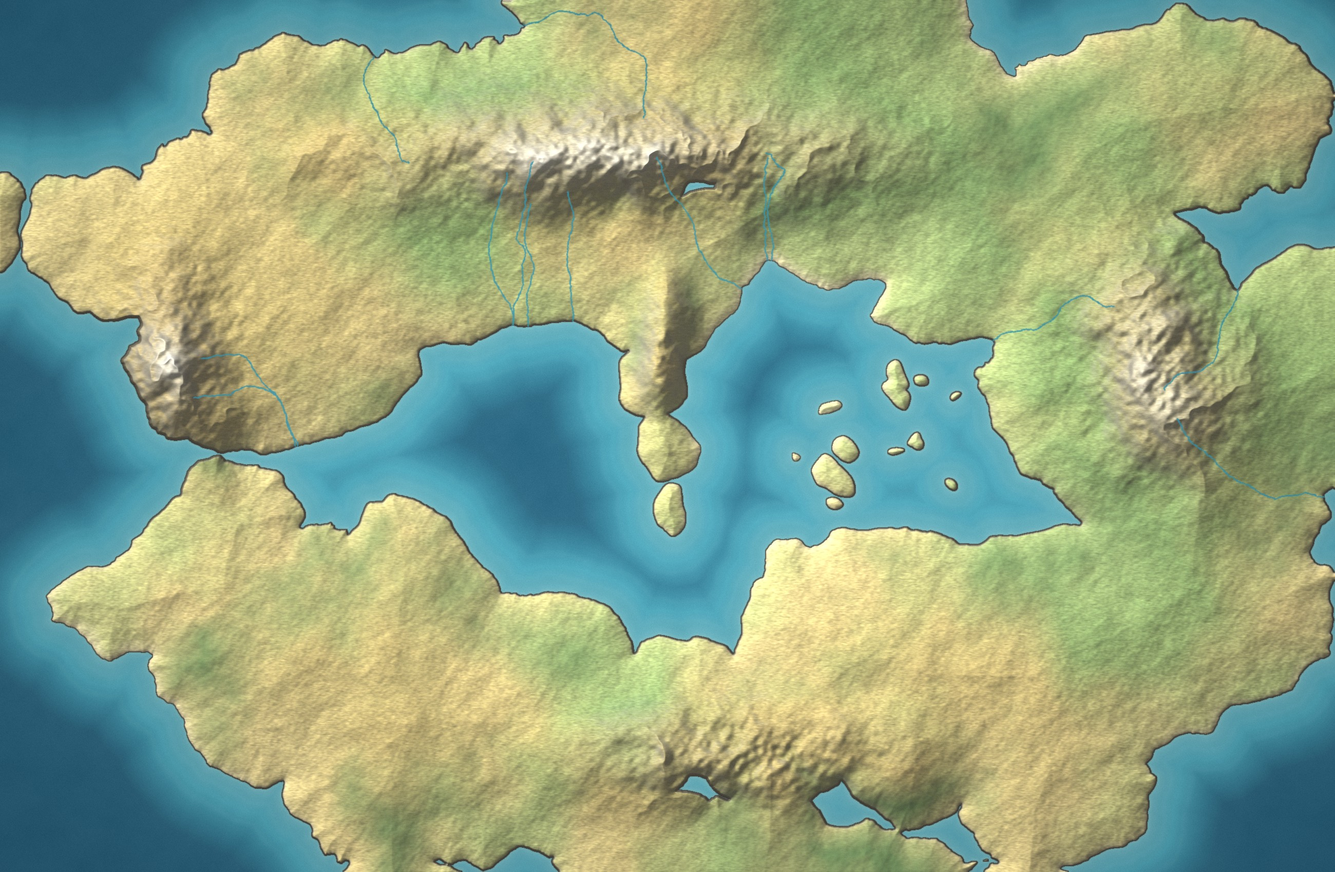
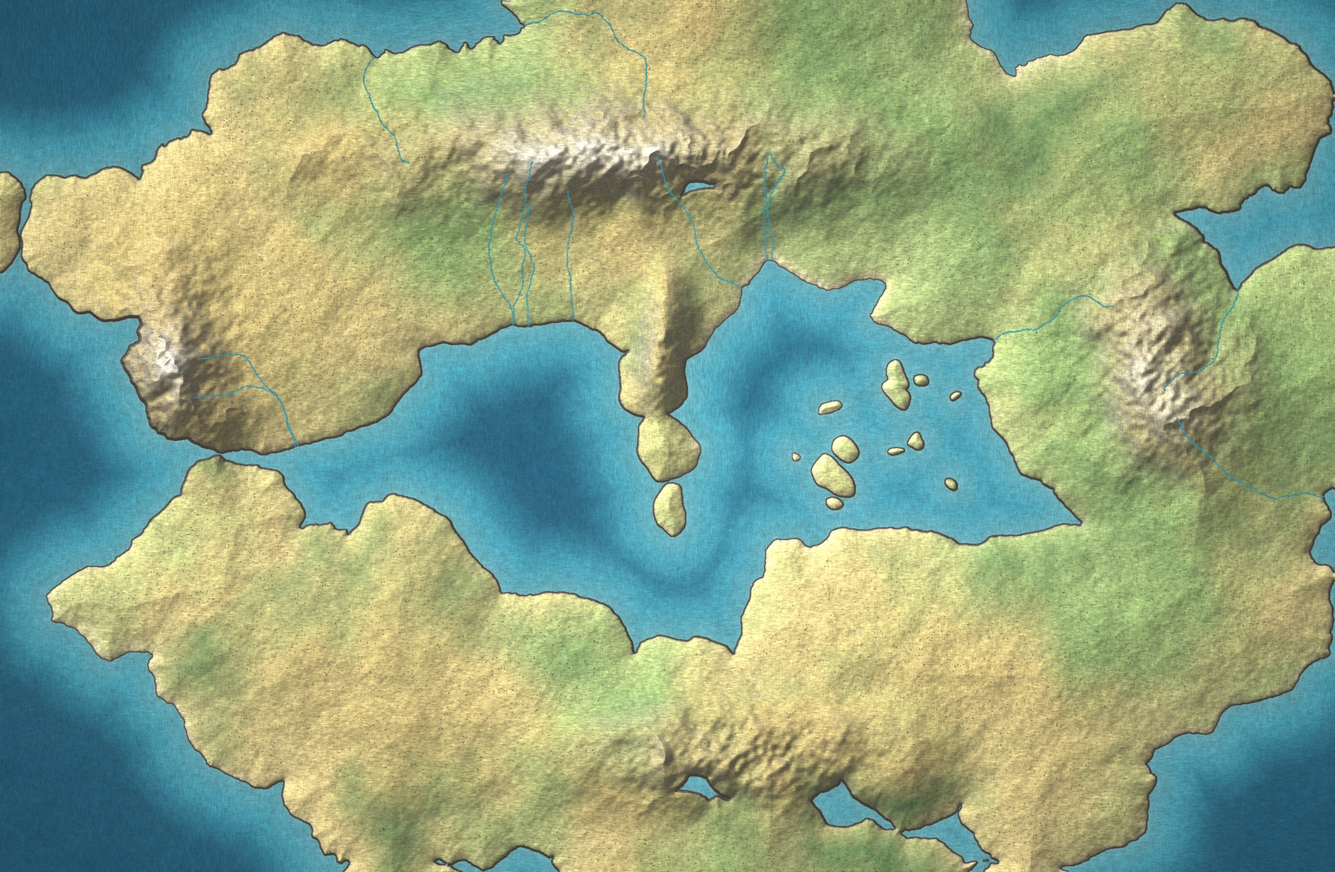
The Eightpoints is the Star of Chaos, Azyr has three ways out, and the plates get a hand
Archaon did not find the Allpoints' shape; he made it. The Eightpoints
is now the symbol drawn as ground — a disc for the Varanspire, eight
straight arms, an arrowhead on the end of each with its arcway inside —
crumbled only enough at the coast to be a coast. It reads from the
overview.

Azyr had one door. Every gate into or out of the realm ran through the
Gates of Azyr, which made one place a bottleneck for a whole realm. The
Whispering Gate now opens from the Watch on the southern headland onto
Aqshy, and the Skydock is a Kharadron port with a run to Barak-Nar.

And the three painted plates get what a render lacks and a painting
has: paper tooth and wash under the paint, brush strokes that change
direction across the sheet, hatching where the ground is steep, stipple
where it is flat, and ink bled into the paper at every coast. Faint on
their own; together, the difference between a heightmap and a plate.

diff --git a/src/data/maps/eightpoints.js b/src/data/maps/eightpoints.js
@@ -27,16 +27,16 @@ export default {
       "name": "Carngrad",
       "kind": "fortress",
       "region": "The Eightpoints",
-      "x": 970,
-      "y": 980
+      "x": 1027,
+      "y": 1036
     },
     {
       "id": "flayhaunt",
       "name": "Flayhaunt",
       "kind": "fortress",
       "region": "The Eightpoints",
-      "x": 1640,
-      "y": 750
+      "x": 1646,
+      "y": 769
     },
     {
       "id": "arcway-fire",
@@ -44,22 +44,22 @@ export default {
       "kind": "settlement",
       "region": "The Eightpoints",
       "x": 1300,
-      "y": 464
+      "y": 161
     },
     {
       "id": "arcway-life",
       "name": "The Genesis Gate",
       "kind": "settlement",
       "region": "The Eightpoints",
-      "x": 1539,
-      "y": 610
+      "x": 1783,
+      "y": 366
     },
     {
       "id": "arcway-beasts",
       "name": "The Mawgate",
       "kind": "settlement",
       "region": "The Eightpoints",
-      "x": 1642,
+      "x": 1981,
       "y": 850
     },
     {
@@ -67,48 +67,48 @@ export default {
       "name": "The Endgate",
       "kind": "settlement",
       "region": "The Eightpoints",
-      "x": 1643,
-      "y": 1193
+      "x": 1792,
+      "y": 1342
     },
     {
       "id": "arcway-metal",
       "name": "The Mercurial Gate",
       "kind": "settlement",
       "region": "The Eightpoints",
-      "x": 1308,
-      "y": 1210
+      "x": 1300,
+      "y": 1540
     },
     {
       "id": "arcway-shadow",
       "name": "The Penumbral Gate",
       "kind": "settlement",
       "region": "The Eightpoints",
-      "x": 1091,
-      "y": 1058
+      "x": 812,
+      "y": 1337
     },
     {
       "id": "arcway-light",
       "name": "The Arcway of Hysh",
       "kind": "settlement",
       "region": "The Eightpoints",
-      "x": 1028,
-      "y": 834
+      "x": 616,
+      "y": 850
     },
     {
       "id": "arcway-heavens",
       "name": "The Meteoric Gate (sealed)",
       "kind": "settlement",
       "region": "The Eightpoints",
-      "x": 1077,
-      "y": 627
+      "x": 819,
+      "y": 369
     },
     {
       "id": "skarrgrim",
       "name": "Skarrgrim",
       "kind": "fortress",
       "region": "The Eightpoints",
-      "x": 1253,
-      "y": 1234
+      "x": 1234,
+      "y": 1210
     }
   ],
   "extraLinks": [],

diff --git a/src/data/mortal-realms.js b/src/data/mortal-realms.js
@@ -278,9 +278,14 @@ export const MORTAL_REALMS = {
   // [point, point, name]. A gate joins two points on different realms.
   gates: [
     ['hammerhal-aqsha', 'hammerhal-ghyra', 'The Stormrift Realmgate'],
-    ['brimstone-peninsula', 'gates-of-azyr', 'The Whispering Gate'],
+    // Azyr has more than one way out. Every gate used to run through the
+    // Gates of Azyr, which made that one place a bottleneck for a whole realm;
+    // the Watch on the southern headland opens onto Aqshy, and the Skydock
+    // is a Kharadron port with a run to Barak-Nar.
     ['gates-of-azyr', 'excelsis', 'Gate of Azyr'],
     ['gates-of-azyr', 'glymmsforge', 'Gate of Azyr'],
+    ['azyrite-watch', 'brimstone-peninsula', 'The Whispering Gate'],
+    ['skydock', 'barak-nar', 'The Skydock run'],
     ['syar', 'misthavn', 'The Twilight Gate'],
     ['argentine', 'floating-city', 'Skyport Route'],
     // The Arcways out of the Eightpoints. Azyr's, the Meteoric Gate, is sealed.

diff --git a/scripts/paint-realm.py b/scripts/paint-realm.py
@@ -215,6 +215,52 @@ def ramp(t, stops):
     return out
 
 
+def texture(img, land, slope, rng, ink):
+    """What a render lacks and a painting has: paper under the paint, the
+    brush's direction changing from place to place, hatching where the ground
+    is steep, stipple where it is flat, and ink that has bled a little into the
+    paper at every coast. All of it is faint on its own; together it is the
+    difference between a heightmap and a plate."""
+    h, w = land.shape
+    img = img.astype(np.float32)
+
+    # Paper: a fine tooth, and a blotchier wash under it, both multiplicative.
+    tooth = cv2.GaussianBlur(rng.normal(0, 1, (h, w)).astype(np.float32), (0, 0), 0.6)
+    tooth = (tooth - tooth.mean()) / (tooth.std() + 1e-6)
+    wash = fbm(rng, (h, w), octaves=4, base=9) - 0.5
+    img *= (1 + tooth[..., None] * 0.035 + wash[..., None] * 0.07)
+
+    # Brush: streaks whose direction wanders across the sheet. Two directional
+    # blurs of the same noise, blended by a slow field, read as strokes laid
+    # by hand rather than one machine pass.
+    base = rng.normal(0, 1, (h, w)).astype(np.float32)
+    along = cv2.GaussianBlur(base, (21, 3), 0)
+    across = cv2.GaussianBlur(base, (3, 21), 0)
+    mixw = fbm(rng, (h, w), octaves=3, base=5)
+    stroke = along * mixw + across * (1 - mixw)
+    stroke = (stroke - stroke.mean()) / (stroke.std() + 1e-6)
+    img *= (1 + stroke[..., None] * 0.04)
+
+    # Hatching on the steep ground: short dark strokes, denser as it steepens.
+    hatch = cv2.GaussianBlur(rng.normal(0, 1, (h, w)).astype(np.float32), (9, 3), 0)
+    hatch = np.clip((hatch - hatch.mean()) / (hatch.std() + 1e-6) - 0.9, 0, 1)
+    steep = np.clip((slope - 0.6) / 1.4, 0, 1) * land
+    img = img * (1 - (hatch * steep)[..., None] * 0.35) + np.array(ink, np.float32) * (hatch * steep)[..., None] * 0.35
+
+    # Stipple on the flat: sparse dots, as the plates draw scrub and grass.
+    dots = rng.random((h, w)).astype(np.float32)
+    flat = np.clip(1 - slope / 0.5, 0, 1) * land
+    stip = ((dots > 0.9965) & (flat > 0.5)).astype(np.float32)
+    stip = cv2.GaussianBlur(stip, (0, 0), 0.8) * 6
+    img = img * (1 - np.clip(stip, 0, 1)[..., None] * 0.45) + np.array(ink, np.float32) * np.clip(stip, 0, 1)[..., None] * 0.45
+
+    # Ink bleed: the coast's line feathers into the paper on the water side.
+    edge = cv2.morphologyEx(land.astype(np.uint8), cv2.MORPH_GRADIENT, np.ones((3, 3), np.uint8)).astype(np.float32)
+    bleed = cv2.GaussianBlur(edge, (0, 0), 5) * (fbm(rng, (h, w), octaves=4, base=50) * 0.8 + 0.2) * (~land)
+    img = img * (1 - bleed[..., None] * 0.5) + np.array(ink, np.float32) * bleed[..., None] * 0.5
+    return img
+
+
 def paint(height, sea, palette, rng, *, forest=None, glow=None, ink=(30, 24, 20), shore_km=60, streams=None):
     """Turn a heightmap into a plate. Colours are RGB in the palette; BGR out."""
     h, w = height.shape
@@ -311,6 +357,8 @@ def paint(height, sea, palette, rng, *, forest=None, glow=None, ink=(30, 24, 20)
             halo = cv2.GaussianBlur(riv, (0, 0), 9) * palette['river_glow']
             img += halo[..., None] * col
         img = img * (1 - riv[..., None] * 0.85) + col * riv[..., None] * 0.85
+
+    img = texture(img, land, slope, rng, ink)
 
     # --- the realm's own light: a tint and a lift, if it has one.
     if 'tint' in palette:
@@ -497,22 +545,47 @@ def compose_eightpoints(rng):
     cx, cy = 1300, 850
     # The Allpoints as the name says: eight arms out from the Varanspire, with
     # the coast crumbling off every one of them into a sea that is not water.
-    field = star(shape, cx, cy, r_out=860, r_in=470, points=8, rot=np.pi / 8) ** 0.55
-    # Slag banks and broken ground off the arms, and skerries beyond them.
-    for _ in range(60):
-        a = rng.uniform(0, 2 * np.pi); d = rng.uniform(420, 900)
-        r = rng.uniform(40, 130)
-        field = np.maximum(field, blob(shape, cx + np.cos(a) * d, cy + np.sin(a) * d, r, r * 0.8, power=0.9) * rng.uniform(0.7, 1.0))
-    field += (fbm(rng, shape, octaves=6, base=16) - 0.5) * 0.5
-    field = coastify(field, rng, big=70, small=34)
-    land = field > 0.42
+    # Archaon did not find this shape; he made it. The Star of Chaos, drawn as
+    # ground: a disc for the Varanspire, eight straight arms out from it, and
+    # an arrowhead on the end of every one. The coast crumbles enough to be a
+    # coast and no more, so the symbol stays legible from the overview.
+    mask = np.zeros(shape, np.float32)
+    cv2.circle(mask, (cx, cy), 250, 1.0, -1)
+    for k in range(8):
+        a = -np.pi / 2 + k * np.pi / 4
+        ux, uy = np.cos(a), np.sin(a)
+        px, py = -uy, ux                       # across the arm
+        shaft_w, shaft_len, head_w, head_len = 64, 470, 180, 150
+        s0, s1 = 180, 180 + shaft_len
+        shaft = np.array([
+            (cx + ux * s0 + px * shaft_w, cy + uy * s0 + py * shaft_w),
+            (cx + ux * s1 + px * shaft_w, cy + uy * s1 + py * shaft_w),
+            (cx + ux * s1 - px * shaft_w, cy + uy * s1 - py * shaft_w),
+            (cx + ux * s0 - px * shaft_w, cy + uy * s0 - py * shaft_w),
+        ], np.int32)
+        head = np.array([
+            (cx + ux * s1 + px * head_w, cy + uy * s1 + py * head_w),
+            (cx + ux * (s1 + head_len), cy + uy * (s1 + head_len)),
+            (cx + ux * s1 - px * head_w, cy + uy * s1 - py * head_w),
+        ], np.int32)
+        cv2.fillPoly(mask, [shaft], 1.0)
+        cv2.fillPoly(mask, [head], 1.0)
+    field = cv2.GaussianBlur(mask, (0, 0), 6)
+    # Slag skerries off the arrowheads, so it is a realm and not a stencil.
+    for _ in range(50):
+        a = rng.uniform(0, 2 * np.pi); d = rng.uniform(780, 1000)
+        r = rng.uniform(24, 80)
+        field = np.maximum(field, blob(shape, cx + np.cos(a) * d, cy + np.sin(a) * d, r, r * 0.8, power=1.0) * rng.uniform(0.7, 1.0))
+    field += (fbm(rng, shape, octaves=6, base=18) - 0.5) * 0.28
+    field = coastify(field, rng, big=22, small=16)
+    land = field > 0.5
 
     # The Varanspire's mountain at the heart, and a spine down each arm.
-    ranges = blob(shape, cx, cy, 260, 260, power=1.1) * 1.4
+    ranges = blob(shape, cx, cy, 240, 240, power=1.1) * 1.4
     for k in range(8):
-        a = np.pi / 8 + k * np.pi / 4
+        a = -np.pi / 2 + k * np.pi / 4
         for t in np.linspace(0.25, 0.8, 8):
-            ranges = np.maximum(ranges, blob(shape, cx + np.cos(a) * 800 * t, cy + np.sin(a) * 800 * t, 90, 90, power=1.4) * (0.9 - 0.4 * t))
+            ranges = np.maximum(ranges, blob(shape, cx + np.cos(a) * 780 * t, cy + np.sin(a) * 780 * t, 70, 70, power=1.4) * (0.9 - 0.4 * t))
     ranges = cv2.GaussianBlur(ranges, (0, 0), 14)
     sea = 0.36
     height = relief(land, rng, ranges=ranges, sea=sea, rise=0.16, grain=0.12, crest_amp=0.55)
@@ -528,7 +601,7 @@ def compose_eightpoints(rng):
     # Fire at the top, then round the compass, so the star reads as a rose.
     for k, pid in enumerate(arcways):
         a = -np.pi / 2 + k * np.pi / 4
-        coords[pid] = tip_along(land, cx, cy, a)
+        coords[pid] = tip_along(land, cx, cy, a, back=110)   # inside the arrowhead
     coords['carngrad'] = (cx - 330, cy + 130)
     coords['flayhaunt'] = (cx + 340, cy - 100)
     coords['skarrgrim'] = (cx - 70, cy + 360)
